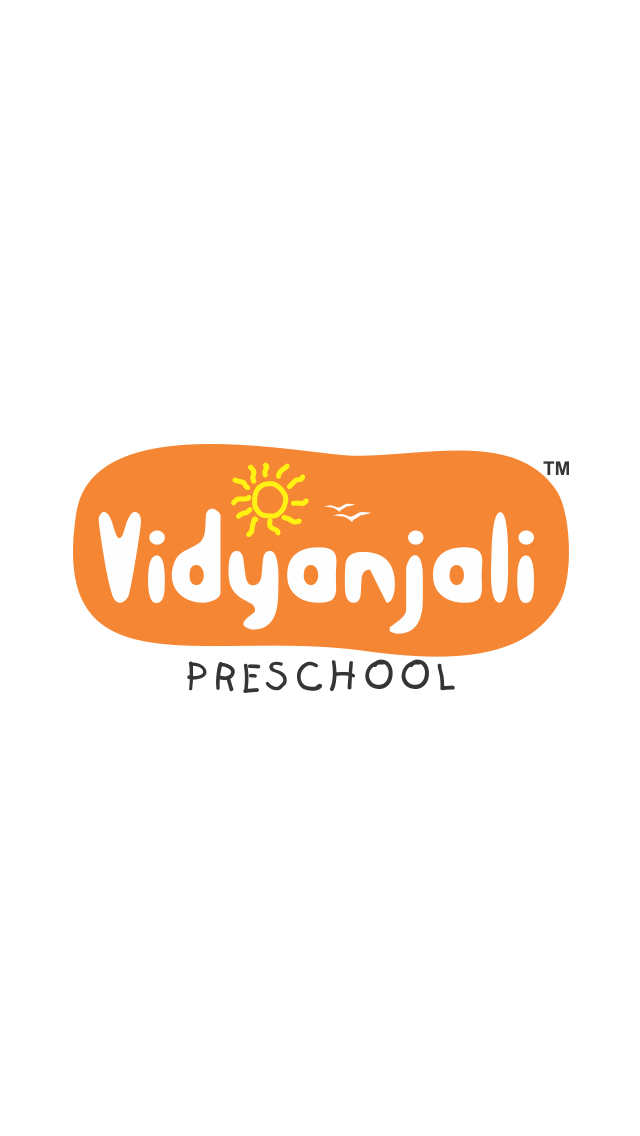
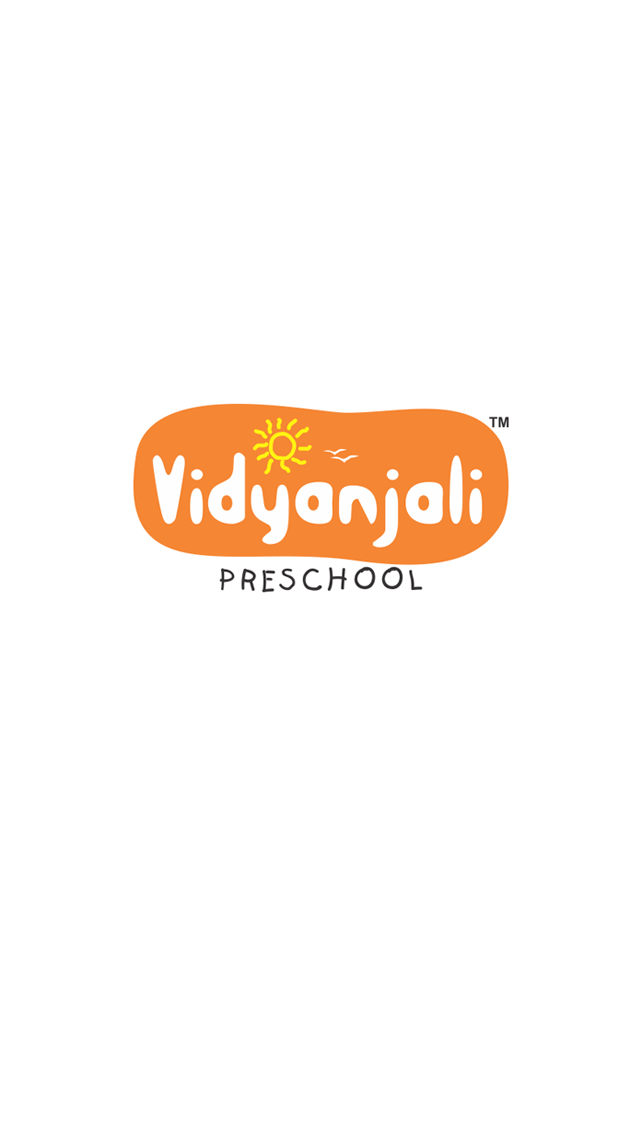
Changes made by B2C Developer (ravic@biz2credit.com).

Changed region(s): [[0.0938, 0.3389, 0.9062, 0.6162]]

diff --git a/Vidyanjali/index.html b/Vidyanjali/index.html
@@ -34,19 +34,31 @@
 
 
         <div data-role="view" id="welcome" data-layout="default" class="welcome-scrn form-view" data-model="app.Login" data-init="app.Login.init" data-after-show="app.Login.show">            
-
             <div class="loader" id="progress" style="display:none;">
                 <div class="ball"></div>
             </div>
             
+            <div data-role="content" style="background-color:#ffffff">               
+               <div class="logoImg" id="contentOuterDiv" style="margin-top:5%;">
+                  <script>
+                    if (screen.width>screen.height){
+                          $("#contentOuterDiv").css("margin-top","8%"); 
+                    }else{
+                        $("#contentOuterDiv").css("margin-top","44%");
+                    }    
+                  </script>
+                   <img id="logo" src="styles/images/Vidyanjali_Logo.png"  style="width:100%;"/>                   
+               </div>                             
+            </div> 
+                  
+            
             <div data-role="footer" id="selectionDiv" style="left:0px; right:0px;margin-right:auto; margin-left:auto;display:none;max-width:600px;margin-bottom:15px;background:#ffffff;">                
-                <form id="login-form" data-bind="events: { keyup: checkEnter }" class="" style="background:#ffffff;">
+                <form id="login-form" data-bind="events: { keyup: checkEnter }" style="background:#ffffff;">
                     <ul data-role="listview" data-style="inset" style="height:53px;">
                         <li class="username" style="padding-left:10px;padding-top:20px;border-radius:3px;background-color:#303645;color:#ffffff;height:53px;">
                             <input type="number" pattern="[0-9]*" step="0.01"  id="loginUsername"  placeholder="Mobile Number" maxlength=10; style="color:#ffffff;font-size: 1.6rem;margin-left:25px;height:53px;">
                         </li>
                     </ul>
-
                     <ol class="group-wrp" style="margin-top:20px;">
                         <li>
                             <span id="login" data-role="touch" data-bind="events: { tap: login }">
@@ -59,7 +71,16 @@
             </div>
 
 
-            <div  data-role="view" id="regenerateDiv" style=" position:absolute;right:0;background-color:#F3F3F3;display:none;margin:20% auto 10px auto; border-radius:3px; padding:30px 10px 30px 10px;border: 2px solid #E9E9E9;height:380px;width:94%;max-width:600px;overflow:hidden;">
+            <div  data-role="view" id="regenerateDiv" style=" position:absolute;right:0;background-color:#F3F3F3;display:none;border-radius:3px; padding:10% 10px 10% 10px; border: 2px solid #E9E9E9;height:auto;width:94%;max-width:600px;overflow:hidden;">
+               <script>
+                if (screen.width>screen.height){
+                    $("#regenerateDiv").css("margin","8% auto 10px auto"); 
+                    $("#regenerateDiv").css("padding","5% 10px 5% 10px");
+                }else{
+                    $("#regenerateDiv").css("margin","20% auto 10px auto");
+                    $("#regenerateDiv").css("padding","10% 10px 10% 10px");
+                }    
+               </script>
 
                 <div data-role="content" style="background-color:#f3f3f3">
 
@@ -85,7 +106,18 @@
               </div>                    
             </div>
 
-          <div  data-role="view"  id="validationRow" class="activities-view" style="right:0;background-color:#F3F3F3;display:none;margin:20% auto 10px auto; border-radius:3px; padding:10px 10px 10px 10px;border: 2px solid #E9E9E9;height:380px;width:94%;max-width:600px;overflow:hidden;">
+            
+          <div  data-role="view"  id="validationRow" class="activities-view" style="right:0;background-color:#F3F3F3;display:none;border-radius:3px;border: 2px solid #E9E9E9;height:auto;width:94%;max-width:600px;overflow:hidden;">
+              <script>
+                if (screen.width>screen.height){
+                      $("#validationRow").css("margin","8% auto 10px auto");
+                      $("#validationRow").css("padding","5% 10px 5% 10px");
+                }else{
+                    $("#validationRow").css("margin","20% auto 10px auto");
+                    $("#validationRow").css("padding","10% 10px 10% 10px");
+                }    
+              </script>
+
             <div data-role="content" style="background-color:#f3f3f3">
                     <div class="loader" id="progressRandomCode" style="display:none;">
                         <div class="ball"></div>                   

diff --git a/Vidyanjali/views/registrationView.html b/Vidyanjali/views/registrationView.html
@@ -36,7 +36,18 @@
     
 
 
-    <div data-role="view" id="regenerateDivR" style=" position:absolute;right:0;background-color:#F3F3F3;display:none;margin:20% auto 10px auto; border-radius:3px; padding:30px 10px 30px 10px;border: 2px solid #E9E9E9;height:380px;width:94%;max-width:600px;overflow:hidden;">
+    <div data-role="view" id="regenerateDivR" style=" position:absolute;right:0;background-color:#F3F3F3;display:none;border-radius:3px;border: 2px solid #E9E9E9;height:auto;width:94%;max-width:600px;overflow:hidden;">
+
+
+        <script>
+                if (screen.width>screen.height){
+                      $("#regenerateDivR").css("margin","8% auto 10px auto"); 
+                      $("#regenerateDivR").css("padding","5% 10px 5% 10px");
+                }else{
+                    $("#regenerateDivR").css("margin","20% auto 10px auto");
+                    $("#regenerateDivR").css("padding","10% 10px 10% 10px");
+                }    
+        </script>
 
         <div data-role="content" style="background-color:#f3f3f3">
 
@@ -63,8 +74,18 @@
         </div>
     </div>
 
-    <div data-role="view" id="validationRowR" style=" position:absolute;right:0;background-color:#F3F3F3;display:none;margin:20% auto 10px auto; border-radius:3px; padding:10px 10px 10px 10px;border: 2px solid #E9E9E9;height:380px;width:94%;max-width:600px;overflow:hidden;">
+    <div data-role="view" id="validationRowR" style="position:absolute;right:0;background-color:#F3F3F3;display:none;border-radius:3px;border: 2px solid #E9E9E9;height:auto;width:94%;max-width:600px;overflow:hidden;">
+             <script>
+                if (screen.width>screen.height){
+                      $("#validationRowR").css("margin","8% auto 10px auto");
+                      $("#validationRowR").css("padding","5% 10px 5% 10px");
+                }else{
+                    $("#validationRowR").css("margin","20% auto 10px auto");
+                    $("#validationRowR").css("padding","10% 10px 10% 10px");
+                }    
+              </script>
 
+        
     <div data-role="content" style="background-color:#f3f3f3">
 
         <div style="background-color:#F3F3F3;color:#313C50;text-align:center;padding:10px;">

diff --git a/Vidyanjali/views/organisationLogin.html b/Vidyanjali/views/organisationLogin.html
@@ -5,11 +5,19 @@
         <div class="ball"></div>
     </div>
 
-    <div style="margin-top:25%;margin-left:15px;margin-bottom:15%;">
+    <div id="adminLoginTitle">
+               <script>
+                if (screen.width>screen.height){
+                      $("#adminLoginTitle").css("margin","10% 0px 10% 15px"); 
+                }else{
+                    $("#adminLoginTitle").css("margin","25% 0px 15% 15px");
+                }    
+               </script>
+
         <span style="color:#82879A;font-size:35px;font-weight:normal;">Organization</span><br/><br/><span style="color:#FBFFFF;font-size:25px;margin-top:30px;font-weight:normal;">Login</span>
     </div>    
 
-    <form id="login-form" data-bind="events: { keyup: checkEnter }" class="">
+    <form id="login-form" data-bind="events: { keyup: checkEnter }" style="left:0px; right:0px;margin-right:auto; margin-left:auto;max-width:600px;margin-bottom:15px;">
         <ul data-role="listview" data-style="inset">
             <li class="username" style="padding:10px;border-radius:3px;border:1px solid #373D4D;box-shadow:none;background-color:#303645;color:#ffffff;margin-bottom:10px;">
                 <input type="number" pattern="[0-9]*" step="0.01" id="loginMob"  placeholder="Mobile Number" maxlength=10; style="border:none;margin-left:25px;"/>

diff --git a/Vidyanjali/scripts/app/login.js b/Vidyanjali/scripts/app/login.js
@@ -23,7 +23,7 @@ app.Login = (function () {
         var show = function () {
             $('#loginUsername').val('');           
             $("#selectionDiv").show();
-                        
+            $("#logo").show();            
             $("#validationRow").hide();  
             $("#regenerateDiv").hide();  
 
@@ -369,12 +369,14 @@ app.Login = (function () {
         var goToLoginPage = function() {
             $("#regenerateDiv").hide();
             $("#validationRow").hide();
+            $("#logo").show();
         };
         
         var clickforRegenerateCode = function() {
             $("#progress").hide();            
             $(".km-scroll-container").css("-webkit-transform", "");  
             $("#regenerateDiv").show();
+            $("#logo").hide();
             $("#selectionDiv").hide();
 
             $("#validationRow").hide(); 
@@ -394,6 +396,7 @@ app.Login = (function () {
             $("#selectionDiv").css("z-index", "1");
             $("#selectionDiv").css("opacity", 1);
             $("#regDoneButton").show();*/
+            $("#logo").show();
             $("#selectionDiv").show();
             $("#regenerateDiv").hide();
             $("#validationRow").hide();

diff --git a/Vidyanjali/styles/main.css b/Vidyanjali/styles/main.css
@@ -103,12 +103,12 @@
 #Aptifi.km-flat #welcome .km-navbar,
 #Aptifi.km-flat #welcome .km-content
 {
-    background: #2A3144; 
-    background: url("images/background.png") no-repeat center center fixed #000; 
+    background: #ffffff; 
+    /*background: url("images/background.png") no-repeat center center fixed #000; 
     -webkit-background-size: cover;
     -moz-background-size: cover;
     -o-background-size: cover;
-    background-size: cover;
+    background-size: cover;*/
     color: #2A3144;
     font-family: 'Helvetica Neue', Helvetica, Arial, sans-serif;
 }
@@ -1358,13 +1358,23 @@ white-space: nowrap;
 }
 
 .showMore{
-  position:absolute;
+    position:absolute;
     right:0;
     left:0;
     margin:10px auto 10px auto;
     color:#57A70C;
     width:94%;  
 }
+
+.logoImg{
+    position:relative;
+    right:0;
+    left:0;
+    margin: 10px auto 10px auto;
+    color:#57A70C;
+    width:70%; 
+}
+
 
 
 .person-name
